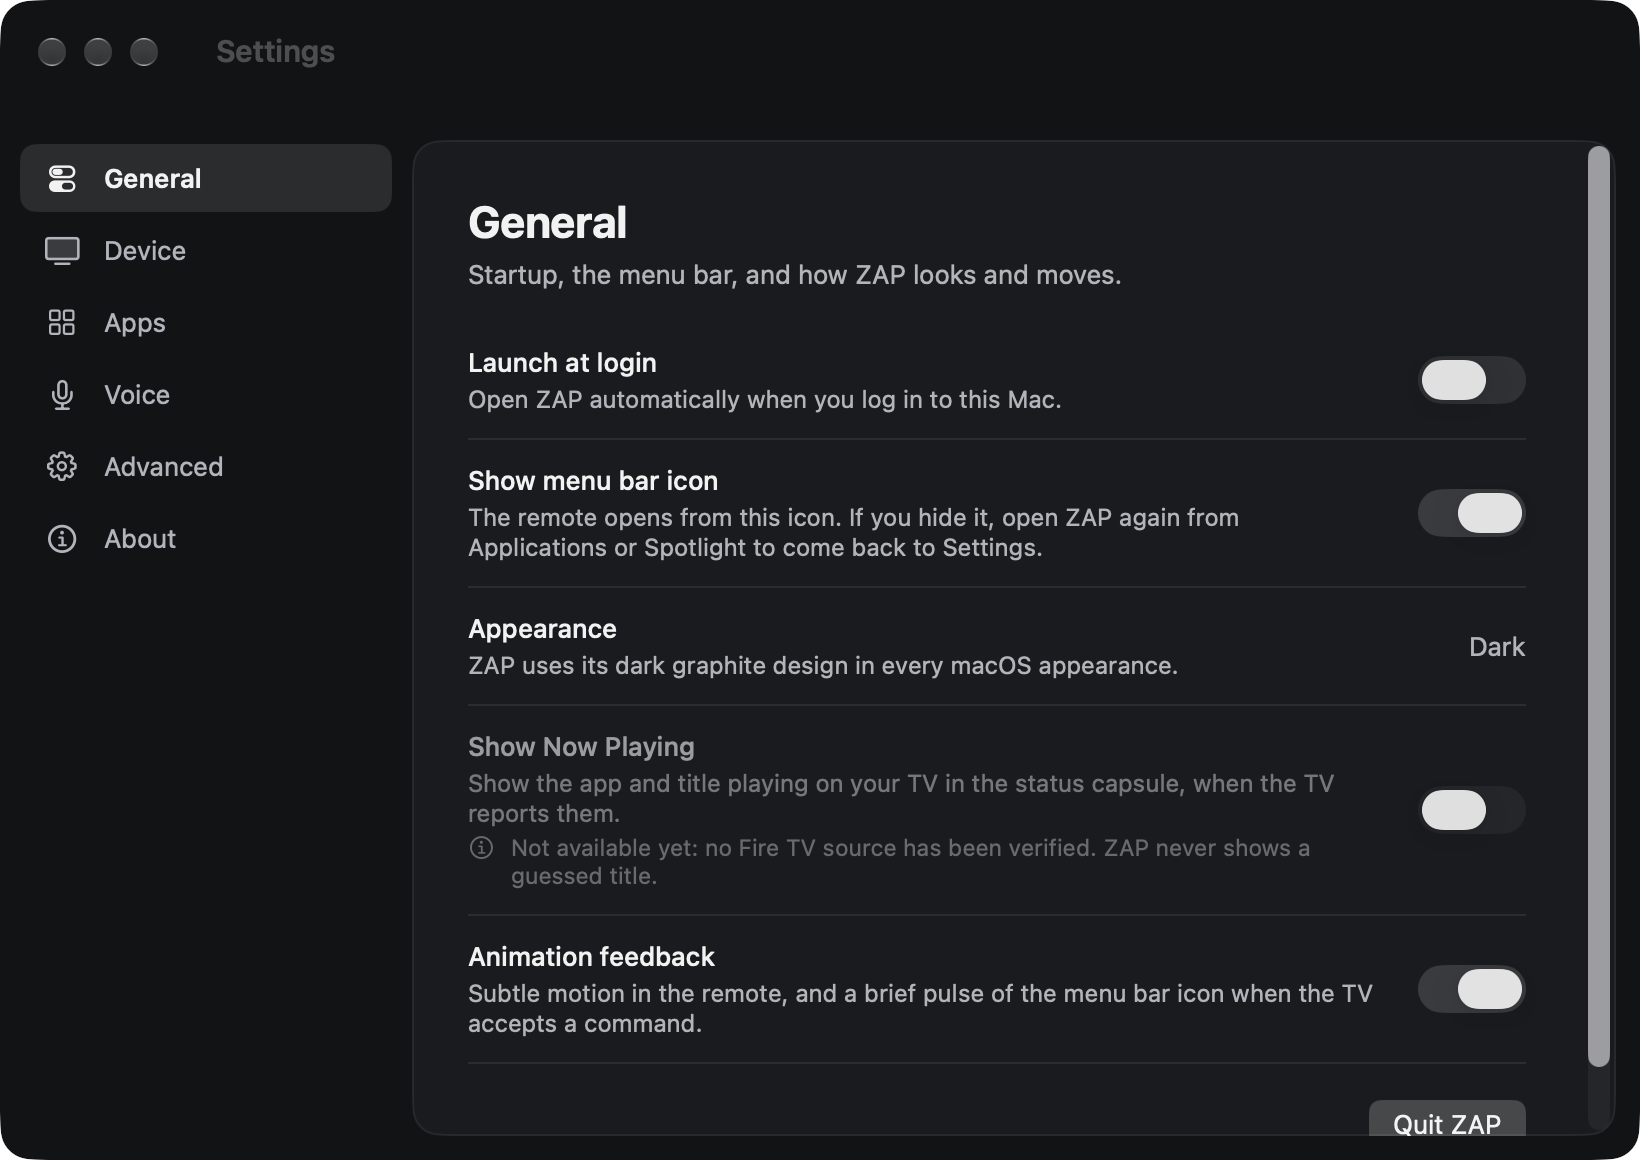
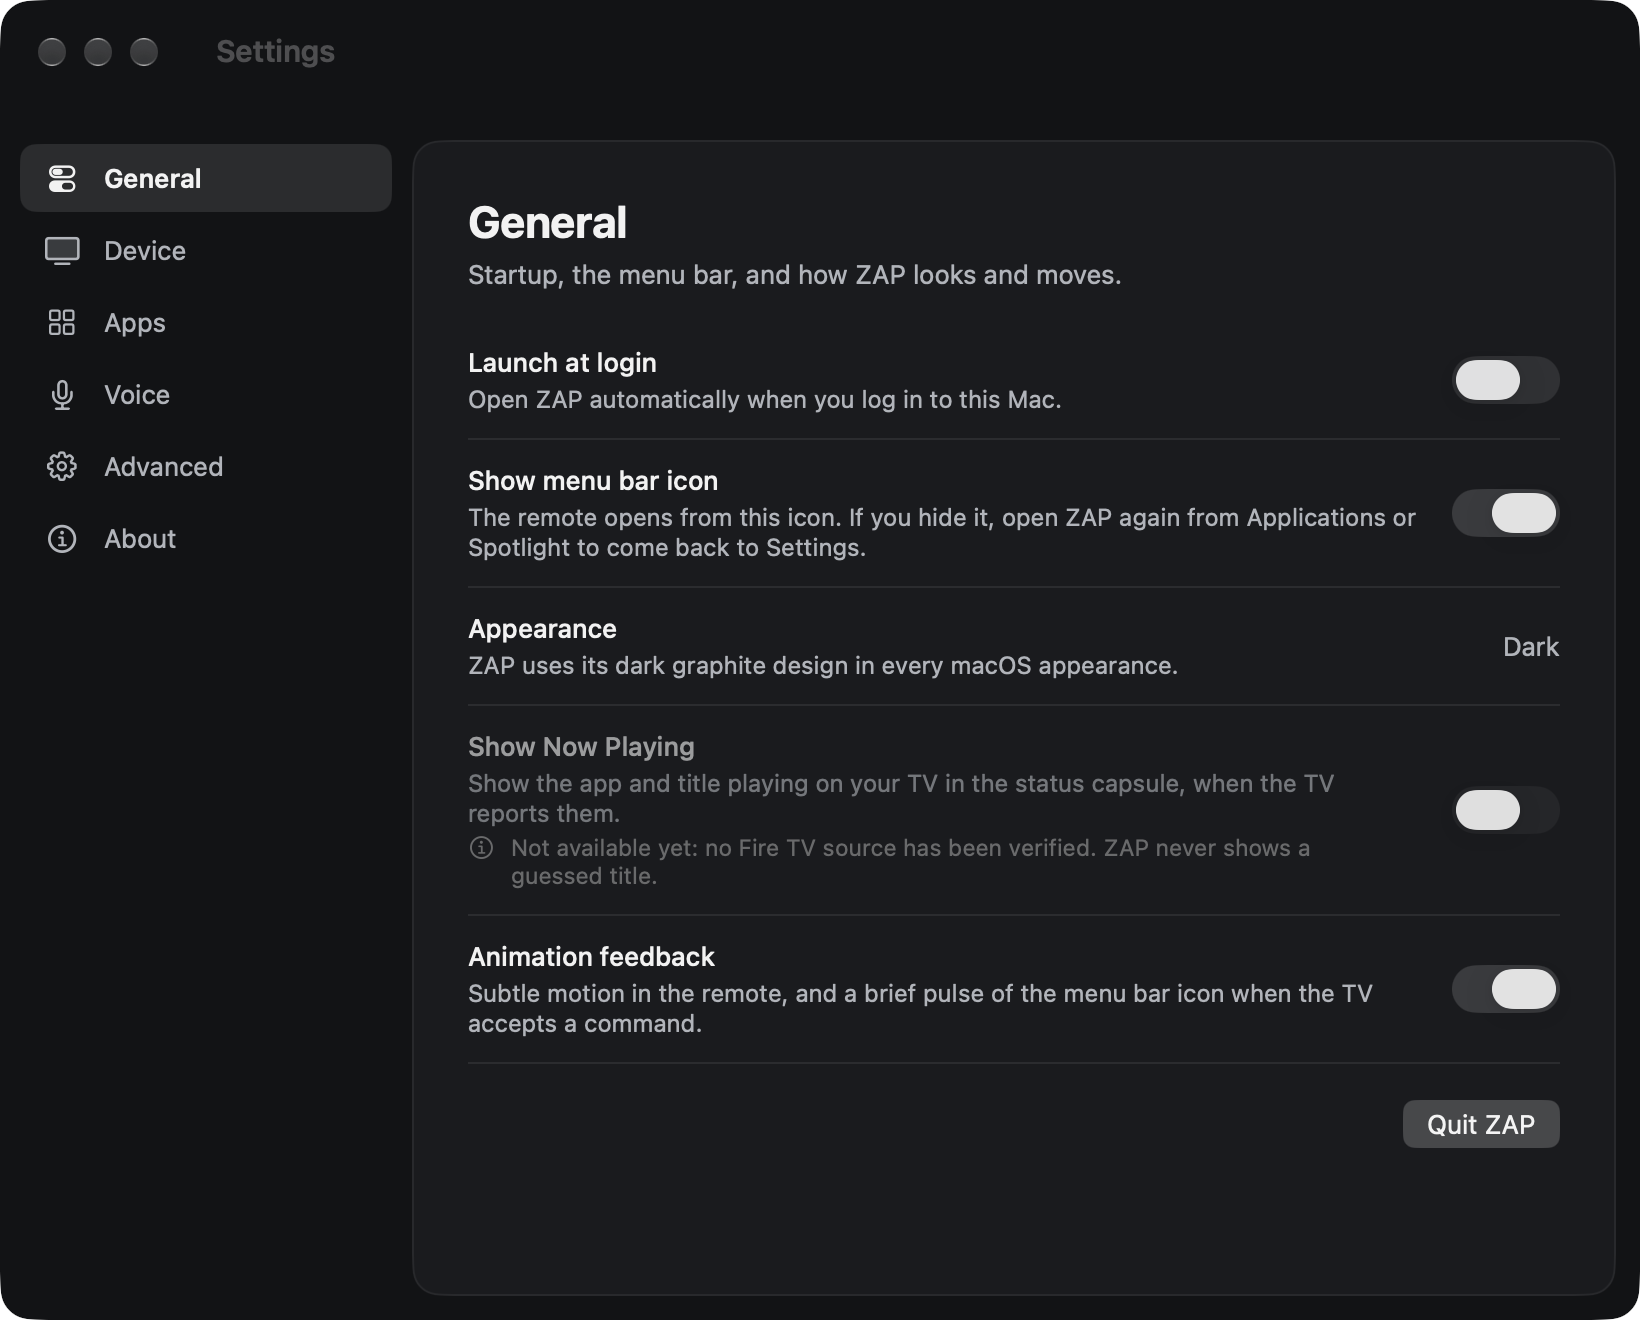
Settings window fits every section at its default size
- Default content size 820×660 (was 820×580, which cut off Quit ZAP in
  General and the last row in Advanced). Smaller windows scroll natively.
- Developer capture: -ZAPCaptureSize, and capturing never overwrites the
  remembered window position.
- Real screenshots of General and About retaken at the default size.

diff --git a/Sources/ZAP/SettingsWindow.swift b/Sources/ZAP/SettingsWindow.swift
@@ -100,7 +100,7 @@ final class SettingsWindowController: NSObject, NSWindowDelegate {
     let navigation = SettingsNavigation()
     private var window: NSWindow?
 
-    static let defaultSize = NSSize(width: 820, height: 580)
+    static let defaultSize = NSSize(width: 820, height: 660)  // every section fits without scrolling
     static let minimumSize = NSSize(width: 660, height: 440)
 
     func show(_ section: SettingsSection? = nil) {
@@ -141,6 +141,14 @@ final class SettingsWindowController: NSObject, NSWindowDelegate {
         if !window.setFrameUsingName(PreferencesMigration.settingsWindowAutosaveName) { window.center() }
         return window
     }
+
+#if ZAP_DEVTOOLS
+    /// Screenshots and layout checks: a known content size instead of the remembered one.
+    func setContentSizeForCapture(_ size: NSSize) {
+        window?.setFrameAutosaveName("")  // never overwrite the remembered window position
+        window?.setContentSize(size)
+    }
+#endif
 
     /// Keeps the window inside the visible area of its screen (small MacBooks, scaled resolutions, Dock).
     private func fitOnScreen(_ window: NSWindow) {

diff --git a/Sources/ZAP/ZAPApp.swift b/Sources/ZAP/ZAPApp.swift
@@ -82,6 +82,11 @@ final class AppDelegate: NSObject, NSApplicationDelegate {
                     return
                 }
                 SettingsWindowController.shared.show(section)
+                // `-ZAPCaptureSize 820x580` captures at that content size (default: the window's own size).
+                if let size = UserDefaults.standard.string(forKey: "ZAPCaptureSize")?.split(separator: "x").compactMap({ Double($0) }),
+                   size.count == 2 {
+                    SettingsWindowController.shared.setContentSizeForCapture(NSSize(width: size[0], height: size[1]))
+                }
                 Task {
                     try? await Task.sleep(nanoseconds: 2_500_000_000)
                     await PanelCapture.capture(to: URL(fileURLWithPath: path))

diff --git a/CONTRIBUTING.md b/CONTRIBUTING.md
@@ -50,7 +50,8 @@ By contributing you agree that your contribution is licensed under the MIT Licen
   `open -n "build/ZAP Remote.app" --args -ZAPOfflinePreview YES`, plus `-ZAPSettingsSection about` to open a
   Settings section and `-ZAPMenuBarDemo YES` to cycle the menu bar light through its states;
 - `-ZAPSettingsSection <section> -ZAPCaptureSettings <file.png>` opens a Settings section, captures ZAP's own
-  window (no Screen Recording permission needed) and quits; used for the README screenshots;
+  window (no Screen Recording permission needed) and quits; used for the README screenshots. Add
+  `-ZAPCaptureSize 820x660` (the default window size) for a known size; the remembered window position is left alone;
 - a `zapremote://` automation interface for testing (see `RemoteModel.handleURL`). It is enabled only by
   `defaults write local.zap.app automationURLs -bool true`; turn it off with
   `defaults delete local.zap.app automationURLs`.
